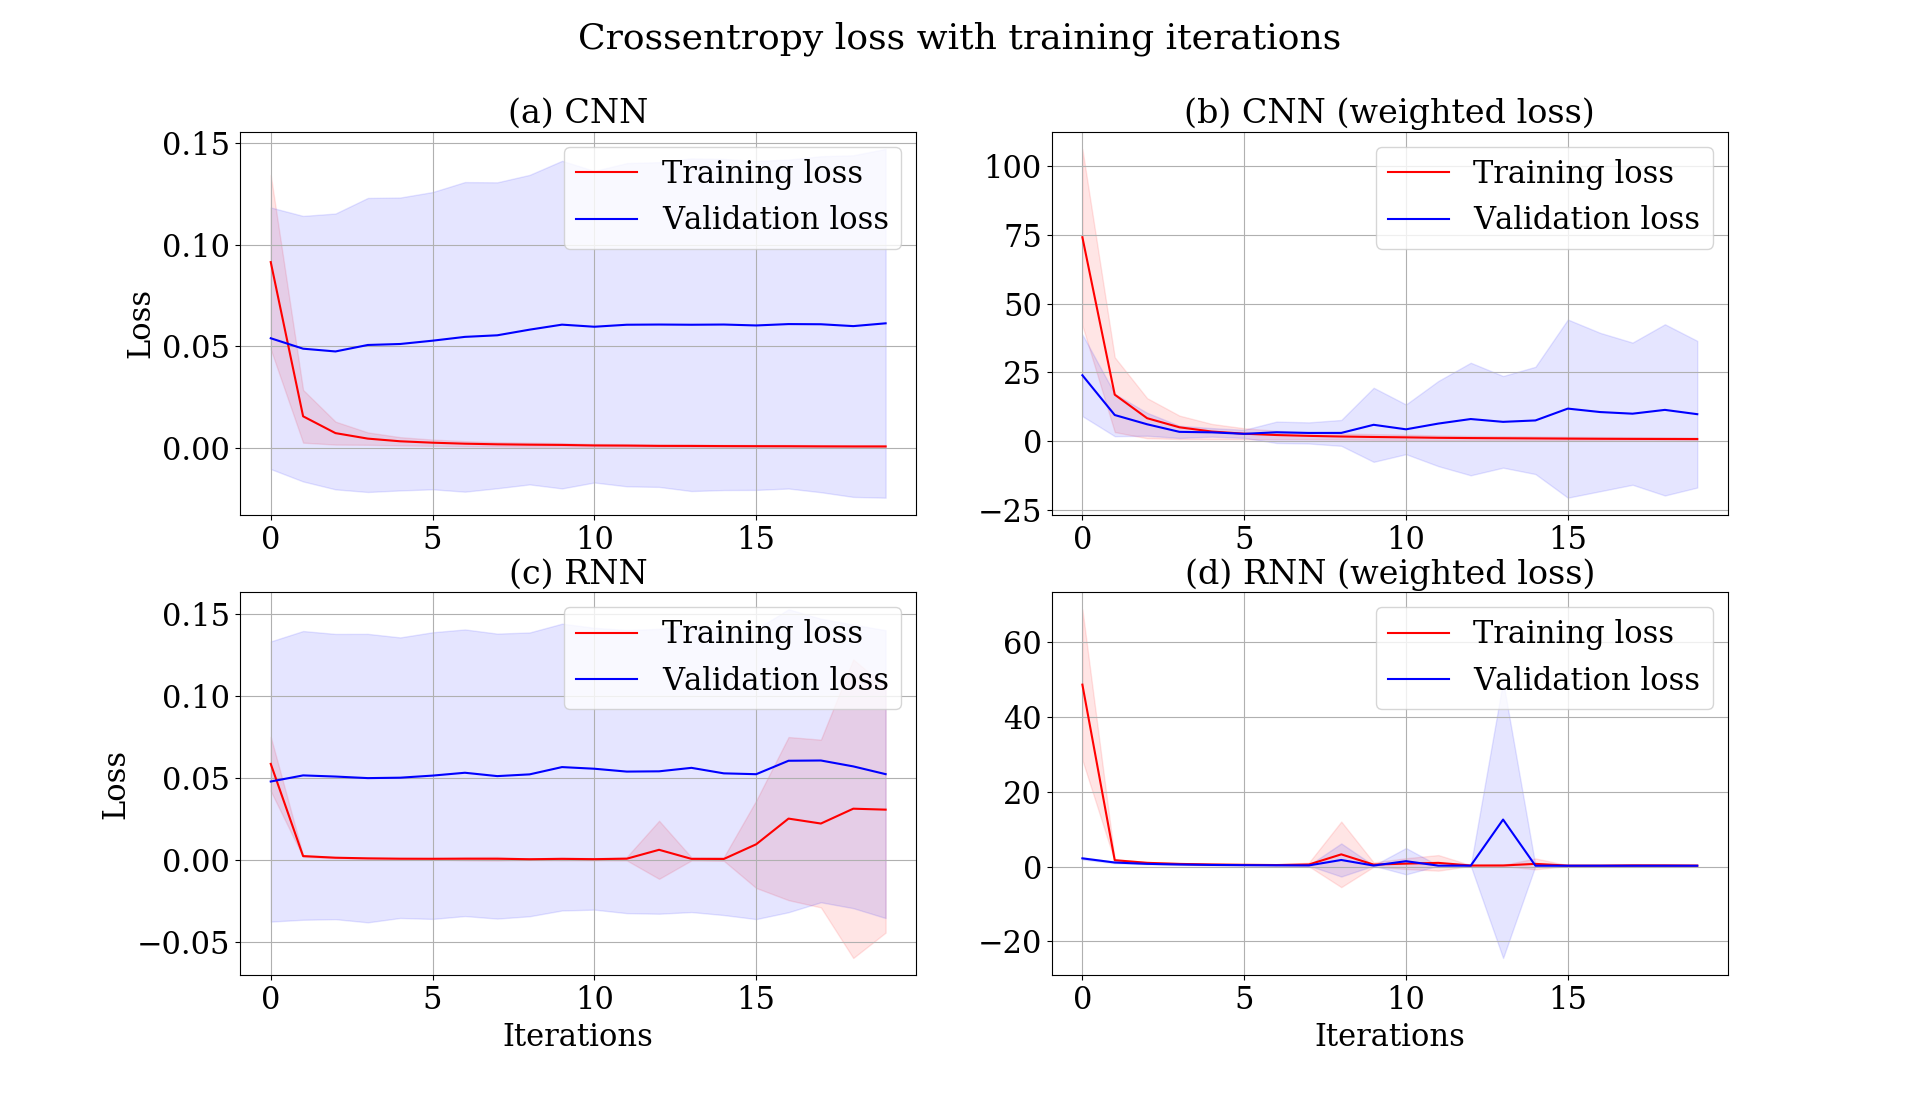
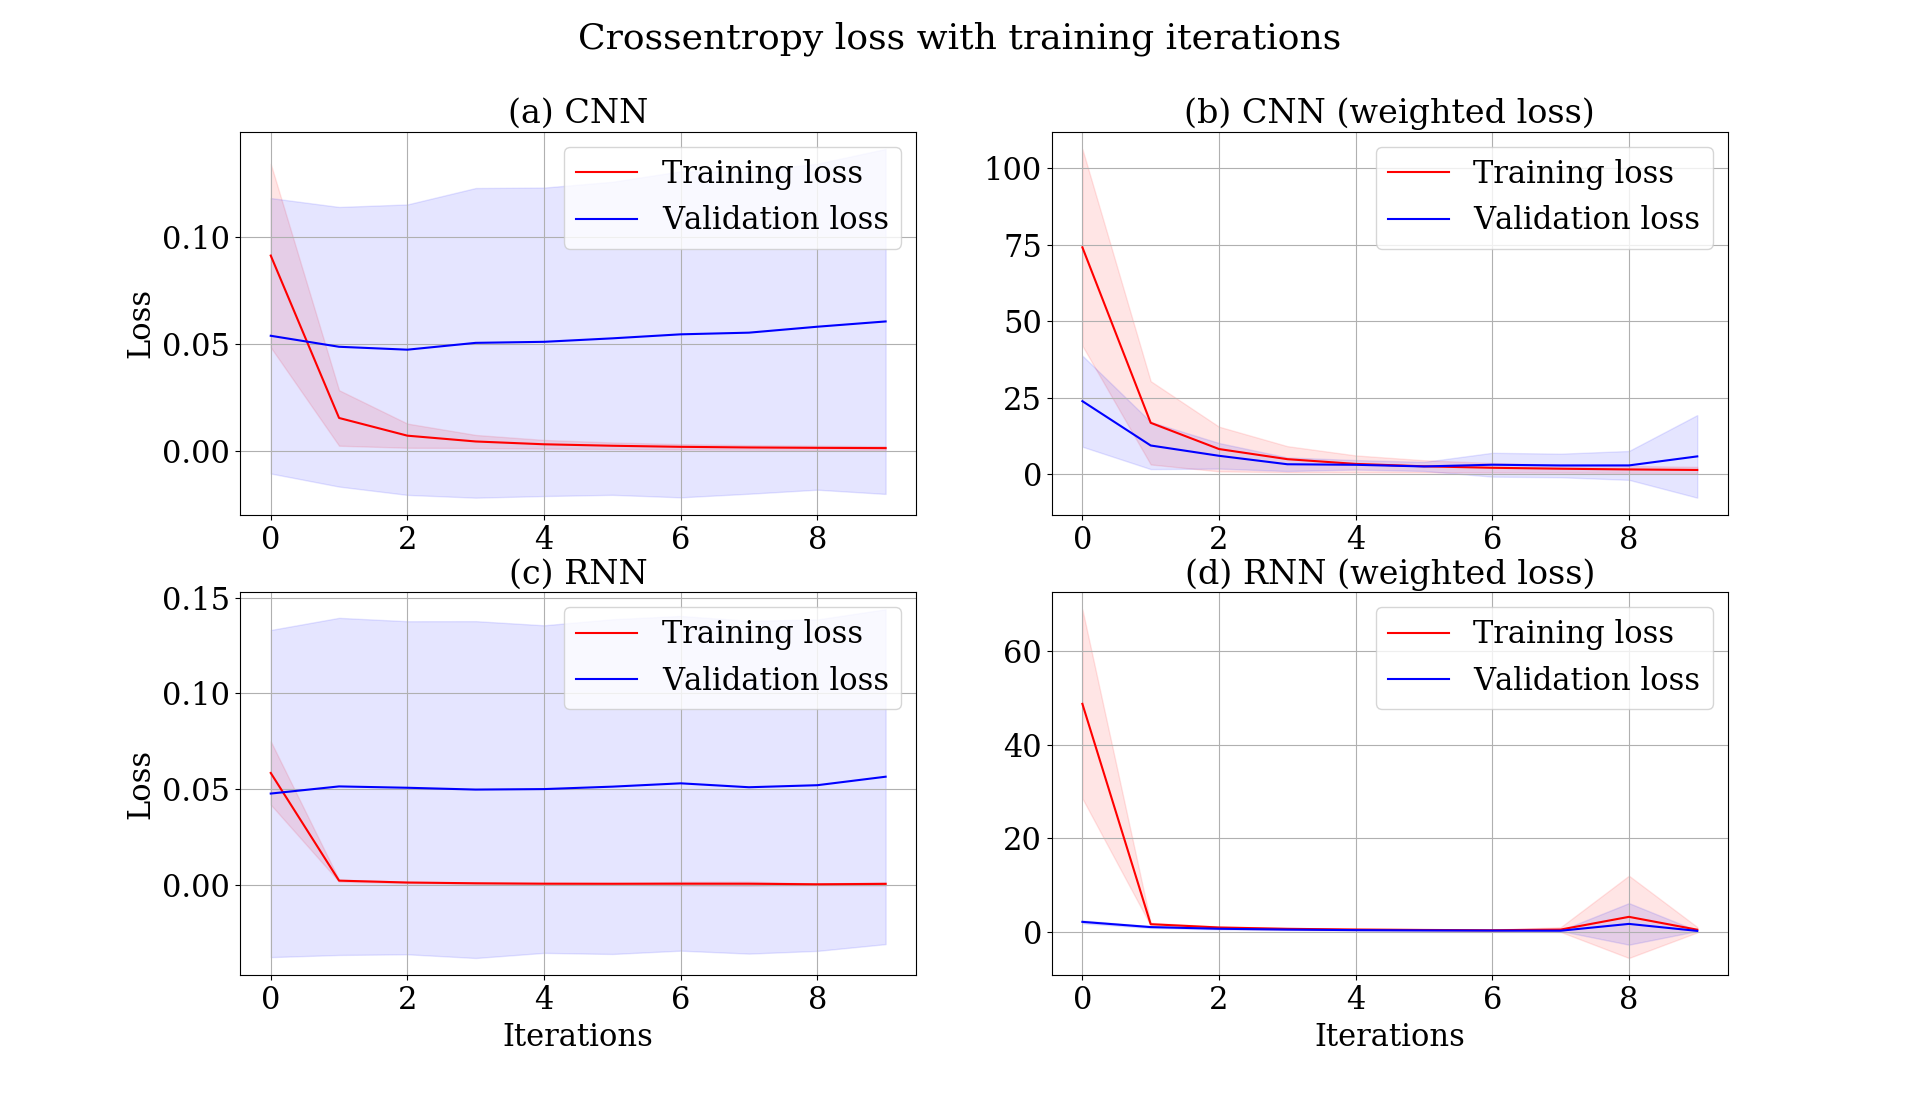
Update script

diff --git a/final_evaluations/plots_paper_presentation.py b/final_evaluations/plots_paper_presentation.py
@@ -23,7 +23,7 @@ base_path = 'data/'
 
 all_approaches_path = ['deep_network_bc/', 'cnn_bc/', 'rnn_bc/', 'rnn_custom_loss/']
 
-titles = ['(a) Deep network', '(b) CNN', '(c) RNN', '(d) RNN with weighted loss']
+titles = ['(a) Deep network', '(b) CNN', '(c) GRU (RNN)', '(d) GRU (RNN) with weighted loss']
 
 
 font = {'family': 'serif', 'size': 22}
@@ -102,21 +102,21 @@ def plot_loss(ax, x_val1, loss_tr_y1, loss_tr_y2, x_val2, loss_te_y1, loss_te_y2
 
 def assemble_loss():
     fig = plt.figure(figsize=fig_size)
-    fig.suptitle('Crossentropy loss with training iterations', size=size_title + 2)
+    fig.suptitle('Cross-entropy loss for multiple neural network architectures', size=size_title + 2)
     gs = gridspec.GridSpec(2,2)
     for idx, approach in enumerate(all_approaches_path):
         if idx == 0:
             ax = plt.subplot(gs[0,0])
-            ax.set_ylabel("Loss", size=size_label)
+            ax.set_ylabel("Mean loss", size=size_label)
         elif idx == 1:
             ax = plt.subplot(gs[0,1])
         elif idx == 2:
             ax = plt.subplot(gs[1,0])
-            ax.set_xlabel("Iterations", size=size_label)
-            ax.set_ylabel("Loss", size=size_label)
+            ax.set_xlabel("Training iterations (epochs)", size=size_label)
+            ax.set_ylabel("Mean loss", size=size_label)
         else:
             ax = plt.subplot(gs[1,1])
-            ax.set_xlabel("Iterations", size=size_label)
+            ax.set_xlabel("Training iterations (epochs)", size=size_label)
             
         train_loss = list()
         test_loss = list()
@@ -138,7 +138,7 @@ def assemble_loss():
         mean_tr_loss = np.mean(train_loss, axis=0)
         mean_te_loss = np.mean(test_loss, axis=0)
         plt_title = titles[idx]
-        plot_loss(ax, mean_tr_loss, mean_tr_loss - loss_tr_y1, mean_tr_loss + loss_tr_y2, mean_te_loss, mean_te_loss - loss_te_y1, mean_te_loss + loss_te_y2, plt_title + "", "Iterations", "Loss", ['Training loss', 'Validation loss'])
+        plot_loss(ax, mean_tr_loss, mean_tr_loss - loss_tr_y1, mean_tr_loss + loss_tr_y2, mean_te_loss, mean_te_loss - loss_te_y1, mean_te_loss + loss_te_y2, plt_title + "", "Training iterations (epochs)", "Mean loss", ['Training loss', 'Test (validation) loss'])
 assemble_loss()
 
 
@@ -159,21 +159,21 @@ def plot_usage(ax, x_val1, y1_top1, y2_top1, x_val2, y1_top2, y2_top2, x_val3, y
 
 def assemble_usage():
     fig = plt.figure(figsize=fig_size)
-    fig.suptitle('Log usage frequency over training iterations', size=size_title + 2)
+    fig.suptitle('Log usage frequency for multiple neural network architectures', size=size_title + 2)
     gs = gridspec.GridSpec(2, 2)
     for idx, approach in enumerate(all_approaches_path):
         if idx == 0:
             ax = plt.subplot(gs[0,0])
-            ax.set_ylabel("Log usage frequency", size=size_label)
+            ax.set_ylabel("Mean log usage frequency", size=size_label)
         elif idx == 1:
             ax = plt.subplot(gs[0,1])
         elif idx == 2:
             ax = plt.subplot(gs[1,0])
-            ax.set_xlabel("Iterations", size=size_label)
-            ax.set_ylabel("Log usage frequency", size=size_label)
+            ax.set_xlabel("Training iterations (epochs)", size=size_label)
+            ax.set_ylabel("Mean log usage frequency", size=size_label)
         else:
             ax = plt.subplot(gs[1,1])
-            ax.set_xlabel("Iterations", size=size_label)
+            ax.set_xlabel("Training iterations (epochs)", size=size_label)
         usage_top1 = list()
         usage_top2 = list()
         usage_top3 = list()
@@ -197,7 +197,7 @@ def assemble_usage():
         y1_top3, y2_top3 = compute_fill_between(usage_top3)
         plt_title = titles[idx]
 
-        plot_usage(ax, mean_top1_usage, mean_top1_usage - y1_top1, mean_top1_usage + y2_top1, mean_top2_usage, mean_top2_usage - y1_top2, mean_top2_usage + y2_top2, mean_top3_usage, mean_top3_usage - y1_top3, mean_top3_usage + y2_top3, plt_title, "Iterations", "Log usage frequency", ['Top1', 'Top2', 'Top3'])
+        plot_usage(ax, mean_top1_usage, mean_top1_usage - y1_top1, mean_top1_usage + y2_top1, mean_top2_usage, mean_top2_usage - y1_top2, mean_top2_usage + y2_top2, mean_top3_usage, mean_top3_usage - y1_top3, mean_top3_usage + y2_top3, plt_title, "Training iterations (epochs)", "Mean log usage frequency", ['Top1', 'Top2', 'Top3'])
 assemble_usage()
 plt.show()
 
@@ -220,22 +220,22 @@ def plot_accuracy(ax, x_val1, y1_top1, y2_top1, x_val2, y1_top2, y2_top2, x_val3
 
 def assemble_accuracy():
     fig = plt.figure(figsize=fig_size)
-    fig.suptitle('Precision@k over training iterations', size=size_title + 2)
+    fig.suptitle('Precision@k for multiple neural network architectures', size=size_title + 2)
     gs = gridspec.GridSpec(2,2)
     for idx, approach in enumerate(all_approaches_path):
         if idx == 0:
             ax = plt.subplot(gs[0,0])
-            ax.set_ylabel("Precision@k", size=size_label)
+            ax.set_ylabel("Mean precision@k", size=size_label)
         elif idx == 1:
             ax = plt.subplot(gs[0,1])
             
         elif idx == 2:
             ax = plt.subplot(gs[1,0])
-            ax.set_xlabel("Iterations", size=size_label)
-            ax.set_ylabel("Precision@k", size=size_label)
+            ax.set_xlabel("Training iterations (epochs)", size=size_label)
+            ax.set_ylabel("Mean precision@k", size=size_label)
         else:
             ax = plt.subplot(gs[1,1])
-            ax.set_xlabel("Iterations", size=size_label)
+            ax.set_xlabel("Training iterations (epochs)", size=size_label)
 
         precision_acc_top1 = list()
         precision_acc_top2 = list()
@@ -261,7 +261,7 @@ def assemble_accuracy():
         y1_top2, y2_top2 = compute_fill_between(precision_acc_top2)
         y1_top3, y2_top3 = compute_fill_between(precision_acc_top3)
         plt_title = titles[idx]
-        plot_accuracy(ax,mean_top1_acc, mean_top1_acc - y1_top1, mean_top1_acc + y2_top1, mean_top2_acc, mean_top2_acc - y1_top2, mean_top2_acc + y2_top2, mean_top3_acc, mean_top3_acc - y1_top3, mean_top3_acc + y2_top3, plt_title, "Iterations", "Precision@k", ['Top1', 'Top2', 'Top3'])
+        plot_accuracy(ax,mean_top1_acc, mean_top1_acc - y1_top1, mean_top1_acc + y2_top1, mean_top2_acc, mean_top2_acc - y1_top2, mean_top2_acc + y2_top2, mean_top3_acc, mean_top3_acc - y1_top3, mean_top3_acc + y2_top3, plt_title, "Training iterations (epochs)", "Mean precision@k", ['Top1', 'Top2', 'Top3'])
 assemble_accuracy()
 plt.show()
 
@@ -308,7 +308,8 @@ plot_path_size_distribution(sorted_key_values, 'Data distribution', 'Number of t
 
 all_approaches_path = ['cnn_bc/', 'cnn_custom_loss/', 'rnn_bc/', 'rnn_custom_loss/']
 
-titles = ['(a) CNN', '(b) CNN (weighted loss)', '(c) RNN', '(d) RNN (weighted loss)']
+titles = ['(a) CNN', '(b) CNN (weighted loss)', '(c) GRU (RNN)', '(d) GRU (RNN) with weighted loss']
+
 
 assemble_loss()
 plt.show()
